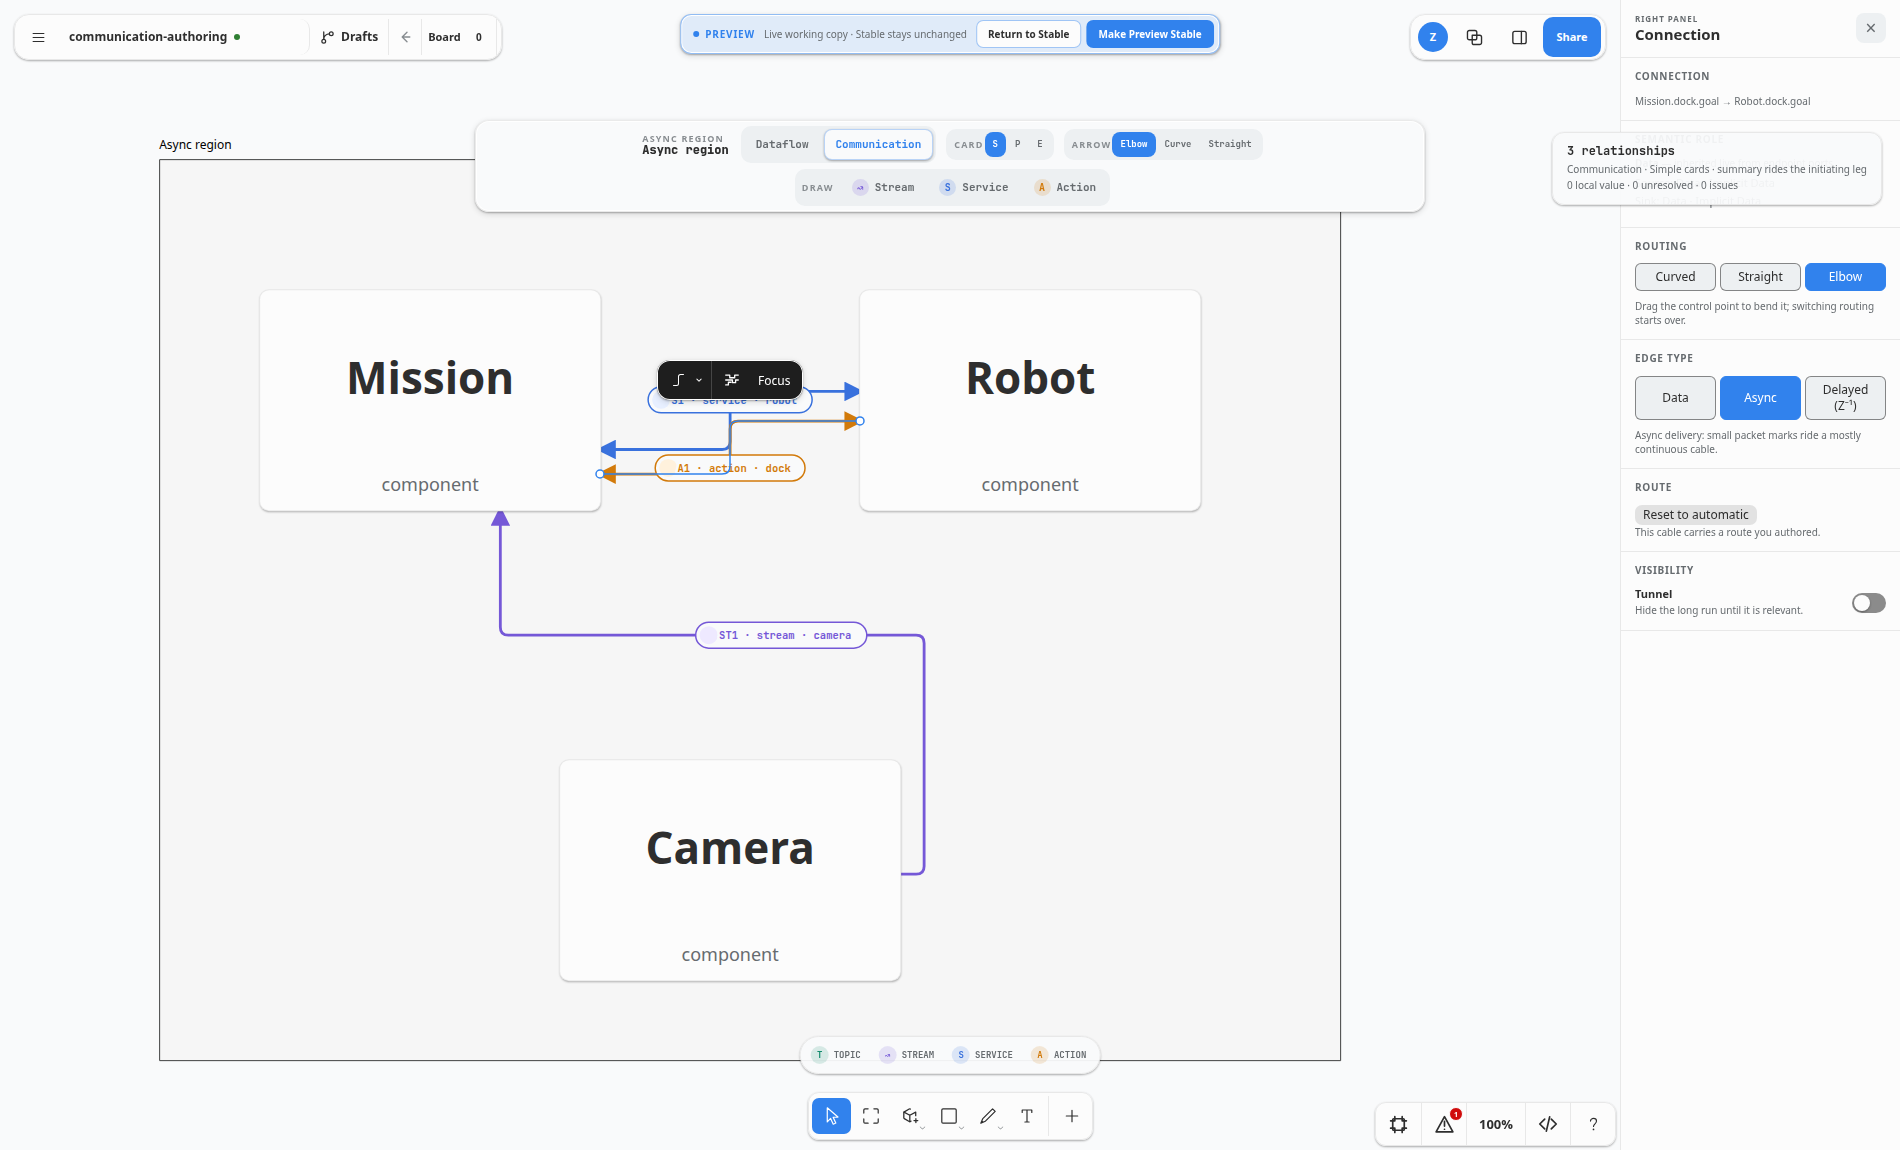
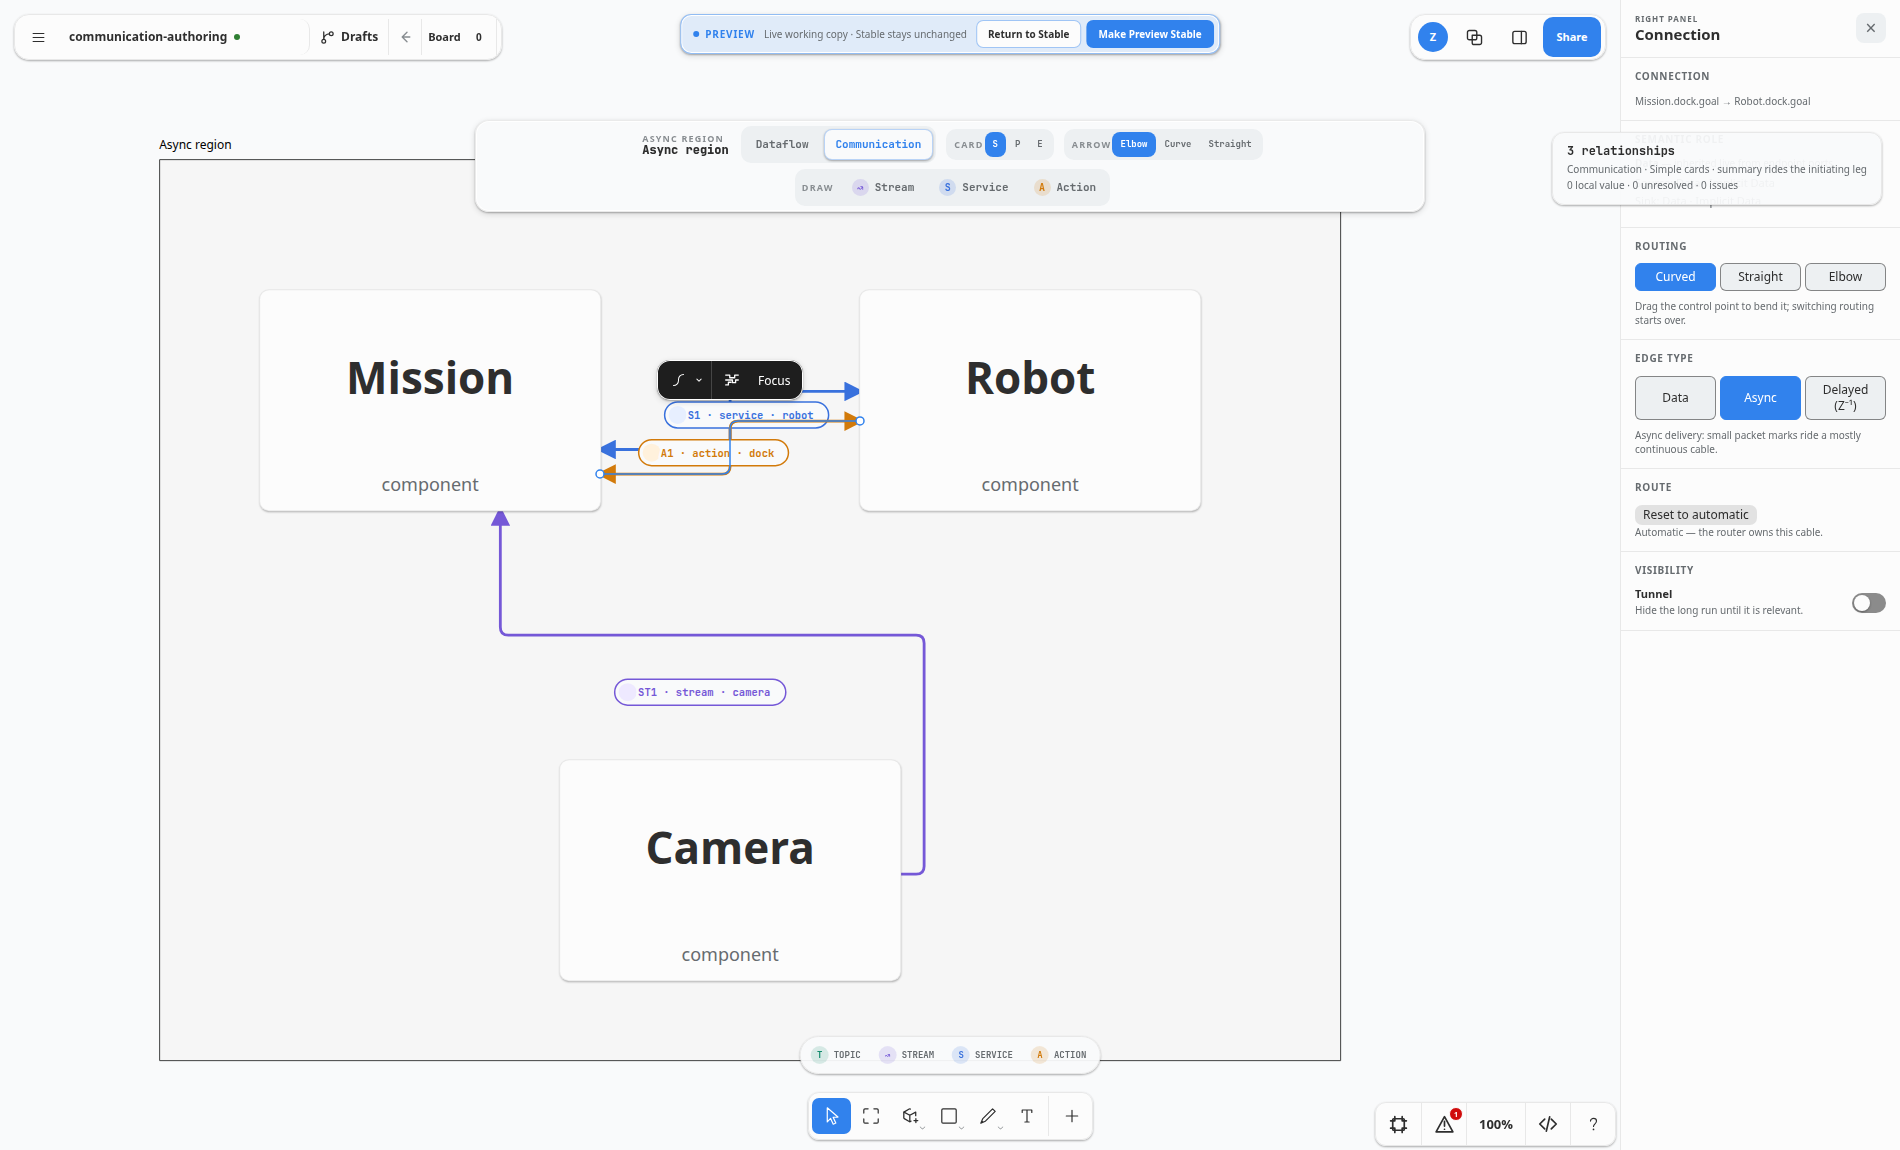
Close the routing and curve leak, and fix a gate that could not fail
An adversarial audit (Opus, on ce6c0ccc and 179b5042) found four real
defects. All four are fixed here.

THE SEPARATION WAS TWO FIFTHS DONE. `elbowRoute` and `pins` were lens-
scoped; `routing` and `curve` were not, and the Arrow control rendered in
BOTH lenses and wrote `routing` into the document. So choosing Curve in
Dataflow re-shaped the communication drawing, and choosing Straight in
communication changed Dataflow's records — the leak ran both ways, and the
commit message that declared the separation complete was wrong. The
communication lens now takes its cable shape from a projection field and
ignores the stored bend entirely, which is the same rule its routes already
follow: it stores nothing and inherits nothing. Two new browser checks
prove both directions, including that choosing a shape in communication
touches not one connection record.

A GATE THAT COULD NOT FAIL. Of the two tests added with the nudge fix, only
one actually went red against the old rule. The other asserted the answer
that an EMPTY constraint matrix falls through to via the cable-id
tie-break, so it passed against the very bug it claimed to catch. Choosing
ids the tie-break would order the other way makes it discriminate. Verified
by restoring the old rule in a scratch copy: both now fail, 2 of 25.

THE CARRIER RULE DISAGREED WITH THE CHOOSER. `chooseCommunicationRepresent-
ative` falls back to whatever leg exists when the initiating one is
[…]

diff --git a/src/prototypes/communication/portPlacementInference.ts b/src/prototypes/communication/portPlacementInference.ts
@@ -78,10 +78,72 @@ const CARRIER_PHASE: Readonly<Record<string, CommunicationPhase>> = {
  * A port whose name says nothing about a protocol parses as a Topic publish and
  * therefore stays — an ordinary data port is not hidden by this rule.
  */
-export function isSummaryCarrierPort(port: BlockPort): boolean {
+export function isSummaryCarrierPort(
+	port: BlockPort,
+	/**
+	 * Every phase this port's interaction actually has on this card.
+	 *
+	 * WHY it must be passed in: the carrier is the initiating leg WHEN THERE IS
+	 * ONE. `chooseCommunicationRepresentative` falls back to whatever leg exists
+	 * — a response-only Service rides its response, a cancel-only Action its
+	 * cancel — and judging a port in isolation hid exactly those, so the lens
+	 * drew a summary arrow spanning two cards with no port dot at either end.
+	 * An adversarial audit found four such shapes. Omit it and the answer
+	 * degrades to the isolated reading, which is right only for complete
+	 * interactions.
+	 */
+	siblingPhases?: ReadonlySet<CommunicationPhase>,
+): boolean {
 	const parsed = inspectCommunicationChannel(port.name, port.name).parsed
 	if (!parsed) return true
-	return CARRIER_PHASE[parsed.family] === parsed.phase
+	const preferred = CARRIER_PHASE[parsed.family]
+	if (parsed.phase === preferred) return true
+	if (!siblingPhases || siblingPhases.has(preferred)) return false
+	// The initiating leg is absent, so the summary arrow rides the first leg
+	// that IS here — the same order `chooseCommunicationRepresentative` uses.
+	return firstPresentPhase(parsed.family, siblingPhases) === parsed.phase
+}
+
+/** The order a summary cable falls back through when its initiator is missing. */
+const FALLBACK_ORDER: readonly CommunicationPhase[] = [
+	'publish', 'stream', 'request', 'goal', 'feedback', 'response', 'result', 'cancel',
+]
+
+function firstPresentPhase(
+	family: string,
+	present: ReadonlySet<CommunicationPhase>,
+): CommunicationPhase | null {
+	// Cancel never speaks for an Action while any other leg exists, matching
+	// `chooseCommunicationRepresentative` exactly.
+	const eligible = family === 'action' && [...present].some((phase) => phase !== 'cancel')
+		? FALLBACK_ORDER.filter((phase) => phase !== 'cancel')
+		: FALLBACK_ORDER
+	return eligible.find((phase) => present.has(phase)) ?? null
+}
+
+/** Every communication phase present on this card, grouped by interaction. */
+export function phasesByInteraction(
+	ports: readonly BlockPort[],
+): Map<string, Set<CommunicationPhase>> {
+	const grouped = new Map<string, Set<CommunicationPhase>>()
+	for (const port of ports) {
+		const parsed = inspectCommunicationChannel(port.name, port.name).parsed
+		if (!parsed) continue
+		const key = `${parsed.family}:${parsed.name.toLowerCase()}`
+		const set = grouped.get(key) ?? new Set<CommunicationPhase>()
+		set.add(parsed.phase)
+		grouped.set(key, set)
+	}
+	return grouped
+}
+
+/** The phases of THIS port's interaction, ready to pass to the carrier test. */
+export function siblingPhasesFor(
+	port: BlockPort,
+	grouped: Map<string, Set<CommunicationPhase>>,
+): ReadonlySet<CommunicationPhase> | undefined {
+	const key = portInteractionKey(port)
+	return key ? grouped.get(key) : undefined
 }
 
 /** The interaction a port belongs to, or null when its name says nothing. */

diff --git a/src/prototypes/communication/portPlacementInference.test.ts b/src/prototypes/communication/portPlacementInference.test.ts
@@ -4,7 +4,9 @@ import {
 	dataflowOrderFromCommunication,
 	inferCommunicationPlacements,
 	isSummaryCarrierPort,
+	phasesByInteraction,
 	portInteractionKey,
+	siblingPhasesFor,
 	type InferencePort,
 } from './portPlacementInference'
 import type { BlockPort } from '../../blocks/blockModel'
@@ -181,5 +183,53 @@ describe('only the sockets a summary arrow attaches to', () => {
 		for (const [name, carrier] of cases) {
 			expect(isSummaryCarrierPort(port('p', name))).toBe(carrier)
 		}
+	})
+})
+
+
+describe('an interaction missing its initiating leg', () => {
+	// Found by an adversarial audit: `chooseCommunicationRepresentative` falls
+	// back to whatever leg exists, but judging a port in isolation hid exactly
+	// those — so the lens drew a summary arrow between two cards with NO port
+	// dot at either end. These four shapes are that bug.
+	const carriers = (names: readonly string[]) => {
+		const ports = names.map((name, index) => port(String(index), name))
+		const grouped = phasesByInteraction(ports)
+		return ports
+			.filter((entry) => isSummaryCarrierPort(entry, siblingPhasesFor(entry, grouped)))
+			.map((entry) => entry.name)
+	}
+
+	it('draws a response-only Service on its response', () => {
+		expect(carriers(['ping.response'])).toEqual(['ping.response'])
+	})
+
+	it('draws a cancel-only Action on its cancel', () => {
+		expect(carriers(['move.cancel'])).toEqual(['move.cancel'])
+	})
+
+	it('draws a result-only Action on its result', () => {
+		expect(carriers(['move.result'])).toEqual(['move.result'])
+	})
+
+	it('prefers feedback over result when an Action has no goal', () => {
+		// The same order the representative chooser uses.
+		expect(carriers(['move.feedback', 'move.result'])).toEqual(['move.feedback'])
+	})
+
+	it('never lets cancel carry while another leg is present', () => {
+		expect(carriers(['move.cancel', 'move.result'])).toEqual(['move.result'])
+	})
+
+	it('still hides the other legs once the initiator IS present', () => {
+		expect(carriers(['move.goal', 'move.feedback', 'move.result'])).toEqual(['move.goal'])
+		expect(carriers(['ping.request', 'ping.response'])).toEqual(['ping.request'])
+	})
+
+	it('leaves two interactions on one card independent', () => {
+		// `move` is complete, `ping` is missing its request: each is judged on
+		// its own legs, not on the card's.
+		expect(carriers(['move.goal', 'move.result', 'ping.response']))
+			.toEqual(['move.goal', 'ping.response'])
 	})
 })

diff --git a/src/prototypes/communication/communicationProjection.ts b/src/prototypes/communication/communicationProjection.ts
@@ -68,6 +68,8 @@ export interface CommunicationProjectionState {
 	componentView: CommunicationComponentView
 	communicationCard: CommunicationComponentView
 	cableStyle: CommunicationCableStyle
+	/** Communication's own cable shape. Never written to a connection. */
+	communicationRouting: ConnectionRoutingKind
 	focusedGroupKey: string | null
 	/** Null is the legacy query-gated whole-board prototype. */
 	activeRegionId: TLShapeId | null
@@ -87,6 +89,7 @@ export const communicationProjection = new EditorAtom<CommunicationProjectionSta
 		componentView: 'port',
 		communicationCard: 'simple',
 		cableStyle: 'data',
+		communicationRouting: 'elbow',
 		focusedGroupKey: null,
 		activeRegionId: null,
 		drawFamily: 'stream',
@@ -470,6 +473,7 @@ function updateProjection(
 		wholeBoard: inCommunicationLens
 			&& next.activeRegionId === null
 			&& isCommunicationPrototypeQueryEnabled(),
+		routing: next.communicationRouting,
 	})
 }
 
@@ -555,6 +559,13 @@ export function applyCommunicationCableRouting(
 	editor: Editor,
 	routing: ConnectionRoutingKind,
 ): number {
+	// In the communication lens this is a PROJECTION choice: writing `routing`
+	// onto the cables would re-shape Dataflow's drawing too, which is the leak
+	// this split exists to close.
+	if (communicationProjection.get(editor).lens === 'communication') {
+		updateProjection(editor, (state) => ({ ...state, communicationRouting: routing }))
+		return 0
+	}
 	const regionId = activeCommunicationRegionId(editor)
 	const targets = editor.getCurrentPageShapes().filter((shape): shape is ConnectionShape => {
 		if (shape.type !== CONNECTION_SHAPE_TYPE) return false
@@ -573,6 +584,8 @@ export function applyCommunicationCableRouting(
 
 /** What the bar should show: the one shape every cable agrees on, else null. */
 export function communicationCableRouting(editor: Editor): ConnectionRoutingKind | null {
+	const state = communicationProjection.get(editor)
+	if (state.lens === 'communication') return state.communicationRouting
 	const regionId = activeCommunicationRegionId(editor)
 	const routings = new Set(editor.getCurrentPageShapes()
 		.filter((shape): shape is ConnectionShape => shape.type === CONNECTION_SHAPE_TYPE)

diff --git a/src/blocks/ports/portLens.ts b/src/blocks/ports/portLens.ts
@@ -20,9 +20,20 @@ export interface CommunicationLensScope {
 	regionId: TLShapeId | null
 	/** The legacy query-gated prototype puts the whole board in the lens. */
 	wholeBoard: boolean
+	/**
+	 * The shape communication draws its cables with.
+	 *
+	 * WHY it lives here and not on the connection: a cable's `routing` and
+	 * `curve` are document state shared by both lenses, so choosing Curve in
+	 * Dataflow silently re-shaped the communication drawing and vice versa — an
+	 * adversarial audit demonstrated the leak in both directions. Communication
+	 * stores NO cable state, exactly like its routes; this is a projection
+	 * field, and Dataflow's document values are left alone.
+	 */
+	routing: 'curved' | 'straight' | 'elbow'
 }
 
-const IDLE: CommunicationLensScope = { regionId: null, wholeBoard: false }
+const IDLE: CommunicationLensScope = { regionId: null, wholeBoard: false, routing: 'elbow' }
 
 const scopes = new WeakMap<Editor, Atom<CommunicationLensScope>>()
 
@@ -38,7 +49,11 @@ function scopeAtom(editor: Editor): Atom<CommunicationLensScope> {
 /** The projection's single writer. */
 export function setCommunicationLensScope(editor: Editor, scope: CommunicationLensScope): void {
 	const current = scopeAtom(editor).get()
-	if (current.regionId === scope.regionId && current.wholeBoard === scope.wholeBoard) return
+	if (
+		current.regionId === scope.regionId
+		&& current.wholeBoard === scope.wholeBoard
+		&& current.routing === scope.routing
+	) return
 	scopeAtom(editor).set(scope)
 }
 
@@ -71,4 +86,9 @@ export function blockLayoutLensFor(editor: Editor, shapeId: TLShapeId): BlockLay
 	if (scope.wholeBoard) return 'communication'
 	if (!scope.regionId) return 'dataflow'
 	return shapeIsInRegion(editor, shapeId, scope.regionId) ? 'communication' : 'dataflow'
+}
+
+/** The shape a cable takes in the communication lens. */
+export function communicationLensRouting(editor: Editor): 'curved' | 'straight' | 'elbow' {
+	return scopeAtom(editor).get().routing
 }

diff --git a/src/blocks/elbow/nudge.test.ts b/src/blocks/elbow/nudge.test.ts
@@ -315,15 +315,21 @@ describe('bundle ordering when a leg runs the other way', () => {
    * one order that crosses, and hides the genuine cycles.
    */
   it('constrains a segment whose ARRIVING leg comes from the far side', () => {
+    // WHY the ids are 1 and 0 rather than 0 and 1: with an EMPTY constraint
+    // matrix the sort falls through to a cable-id tie-break, and the first
+    // version of this test happened to assert the answer that tie-break gives
+    // — so it passed against the very bug it claims to catch. An adversarial
+    // audit caught that. Choosing ids the tie-break would order the OTHER way
+    // is what makes the assertion discriminate between the two rules.
     const { order } = orderBundle([
-      segment({ cable: 0 }),
+      segment({ cable: 1 }),
       // Arrives inside the first segment's span, from the right.
-      segment({ cable: 1, fromSpan: 100, toSpan: 300, prevChannel: 180, nextChannel: 180 }),
+      segment({ cable: 0, fromSpan: 100, toSpan: 300, prevChannel: 180, nextChannel: 180 }),
     ])
     expect(order).toHaveLength(2)
-    // The reversed leg must place cable 1 on the far side of cable 0, not be
-    // ignored: ignoring it is what let the two cross.
-    expect(order[0]).toBe(0)
+    // The reversed leg must place the second segment on the far side of the
+    // first. Dropping it leaves the tie-break to answer [1, 0] instead.
+    expect(order).toEqual([0, 1])
   })
 
   it('constrains the mirror image the mirrored way', () => {

diff --git a/src/blocks/connections/ConnectionShapeUtil.tsx b/src/blocks/connections/ConnectionShapeUtil.tsx
@@ -32,7 +32,7 @@ import {
 	isPortHostShape,
 	portElbowSideForFace,
 } from './blockPorts'
-import { blockLayoutLensFor } from '../ports/portLens'
+import { blockLayoutLensFor, communicationLensRouting } from '../ports/portLens'
 import {
 	HitPaddedCubicBezier2d,
 	HitPaddedEdge2d,
@@ -2386,10 +2386,18 @@ export function getConnectionShapePath(
 	connection: ConnectionShape,
 ): string {
 	const { source, sink } = getConnectionEndpoints(editor, connection)
-	return getConnectionPath(connection.props.routing, source, sink, {
-		curve: connection.props.curve,
+	// WHY the lens picks the shape here: `routing` and `curve` are document
+	// state shared by both lenses, so a Curve chosen in Dataflow re-shaped the
+	// communication drawing and vice versa — an adversarial audit demonstrated
+	// the leak in both directions. Communication reads its shape from the
+	// projection and ignores the stored bend entirely, which is the same rule
+	// its routes already follow: it stores nothing and inherits nothing.
+	const inLens = connectionIsInCommunicationLens(editor, connection)
+	const routing = inLens ? communicationLensRouting(editor) : connection.props.routing
+	return getConnectionPath(routing, source, sink, {
+		curve: inLens ? null : connection.props.curve,
 		sides: getConnectionExitSides(editor, connection),
-		route: connection.props.routing === 'elbow'
+		route: routing === 'elbow'
 			? getConnectionElbowRoute(editor, connection)
 			: undefined,
 	})

diff --git a/src/blocks/layoutBlock.ts b/src/blocks/layoutBlock.ts
@@ -21,6 +21,8 @@ import { stockBlockVisibleDescription } from './stockBlocks'
 import {
 	inferCommunicationPlacements,
 	isSummaryCarrierPort,
+	phasesByInteraction,
+	siblingPhasesFor,
 } from '../prototypes/communication/portPlacementInference'
 
 /** Donor pyblocks geometry constants. Keep rendering and connection anchors on this grid. */
@@ -775,8 +777,13 @@ function placeHorizontalRails(
 	// socket's label would use. Reserve those strips first so the two never
 	// overprint — this is what turned a card's left column into
 	// "missiomissiomissio…" struck through by the bottom channel's name.
+	// Grouped once per card: whether a port carries its summary arrow depends on
+	// which OTHER legs of its interaction exist here, not on its name alone.
+	const grouped = carriersOnly
+		? phasesByInteraction([...props.inputs, ...props.outputs])
+		: null
 	const shown = (port: BlockPort) => port.visible
-		&& (!carriersOnly || isSummaryCarrierPort(port))
+		&& (!carriersOnly || isSummaryCarrierPort(port, siblingPhasesFor(port, grouped!)))
 	const occupies = (edge: 'top' | 'bottom') => [...props.inputs, ...props.outputs]
 		.some((port) => shown(port) && portCommunicationEdge(port) === edge)
 	const sideSpan = {
